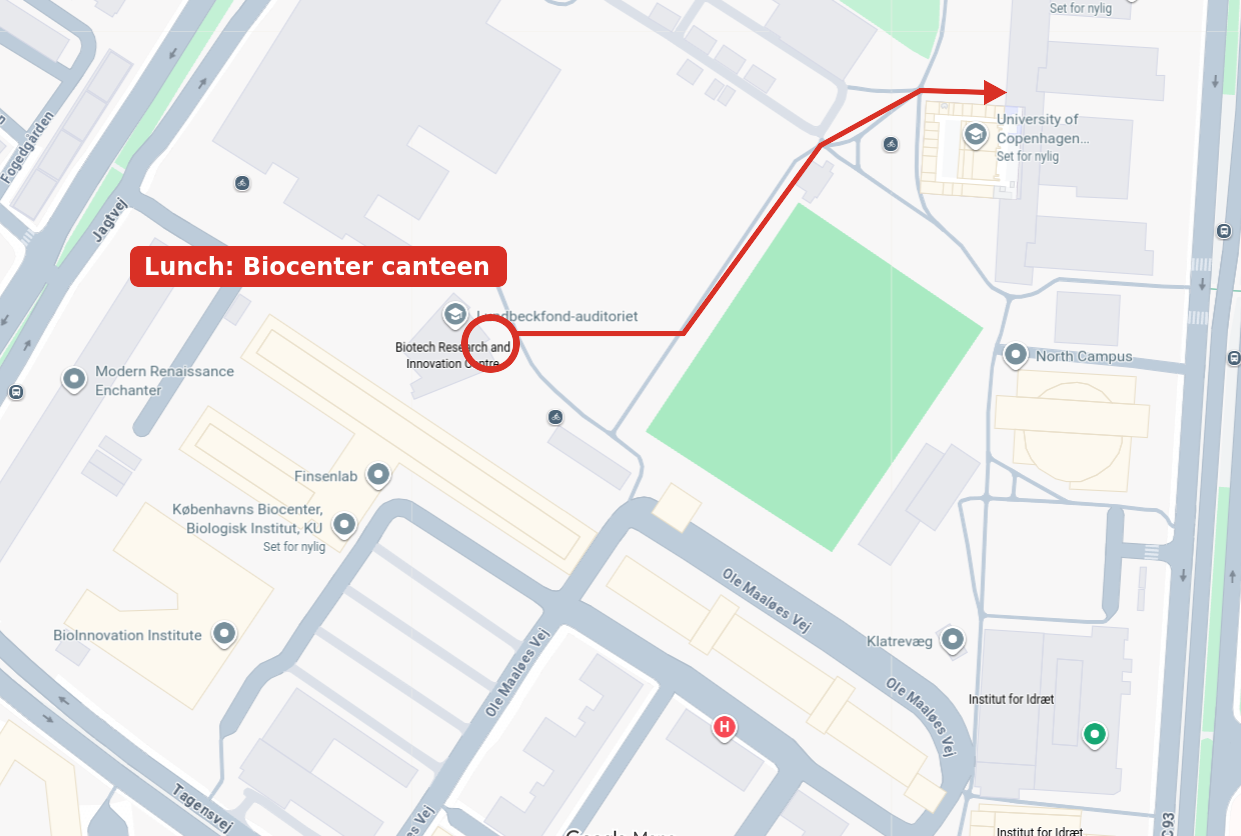
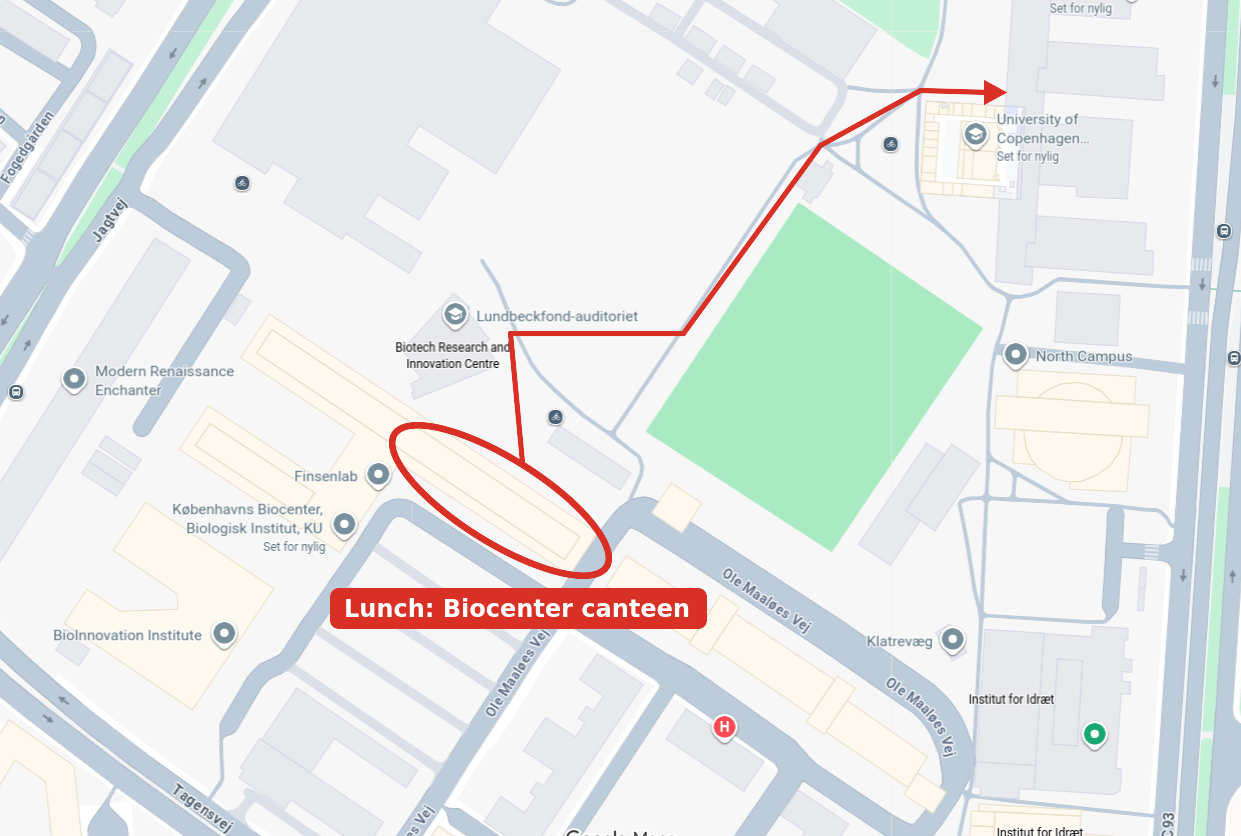
update

diff --git a/arco2026/index.html b/arco2026/index.html
@@ -136,7 +136,7 @@ Thursday 12 November 2026
     a short walk from the H. C. Ørsted Institute.
   </p>
   <a href="https://www.google.com/maps/place/K%C3%B8benhavns+Biocenter,+Biologisk+Institut,+KU/@55.6998429,12.5583475,18z/data=!4m6!3m5!1s0x4652525415ac856d:0xb7d83117c616d01e!8m2!3d55.699204!4d12.556887!16s%2Fg%2F11b6cgvs6m">
-    <img class="map" src="biocenter-map.png" alt="Map with the Biocenter canteen circled in red and a red line showing the walking route from it: east to the sports field, north-east along the path beside it, to the entrance of the H. C. Ørsted Institute">
+    <img class="map" src="biocenter-map.png" alt="Map with the Biocenter canteen circled in red and a red line showing the walking route from it: north to the exit by the Lundbeckfond auditorium, east to the sports field, north-east along the path beside it, to the entrance of the H. C. Ørsted Institute">
   </a>
   <h2>Organizers</h2>
   <ul>
